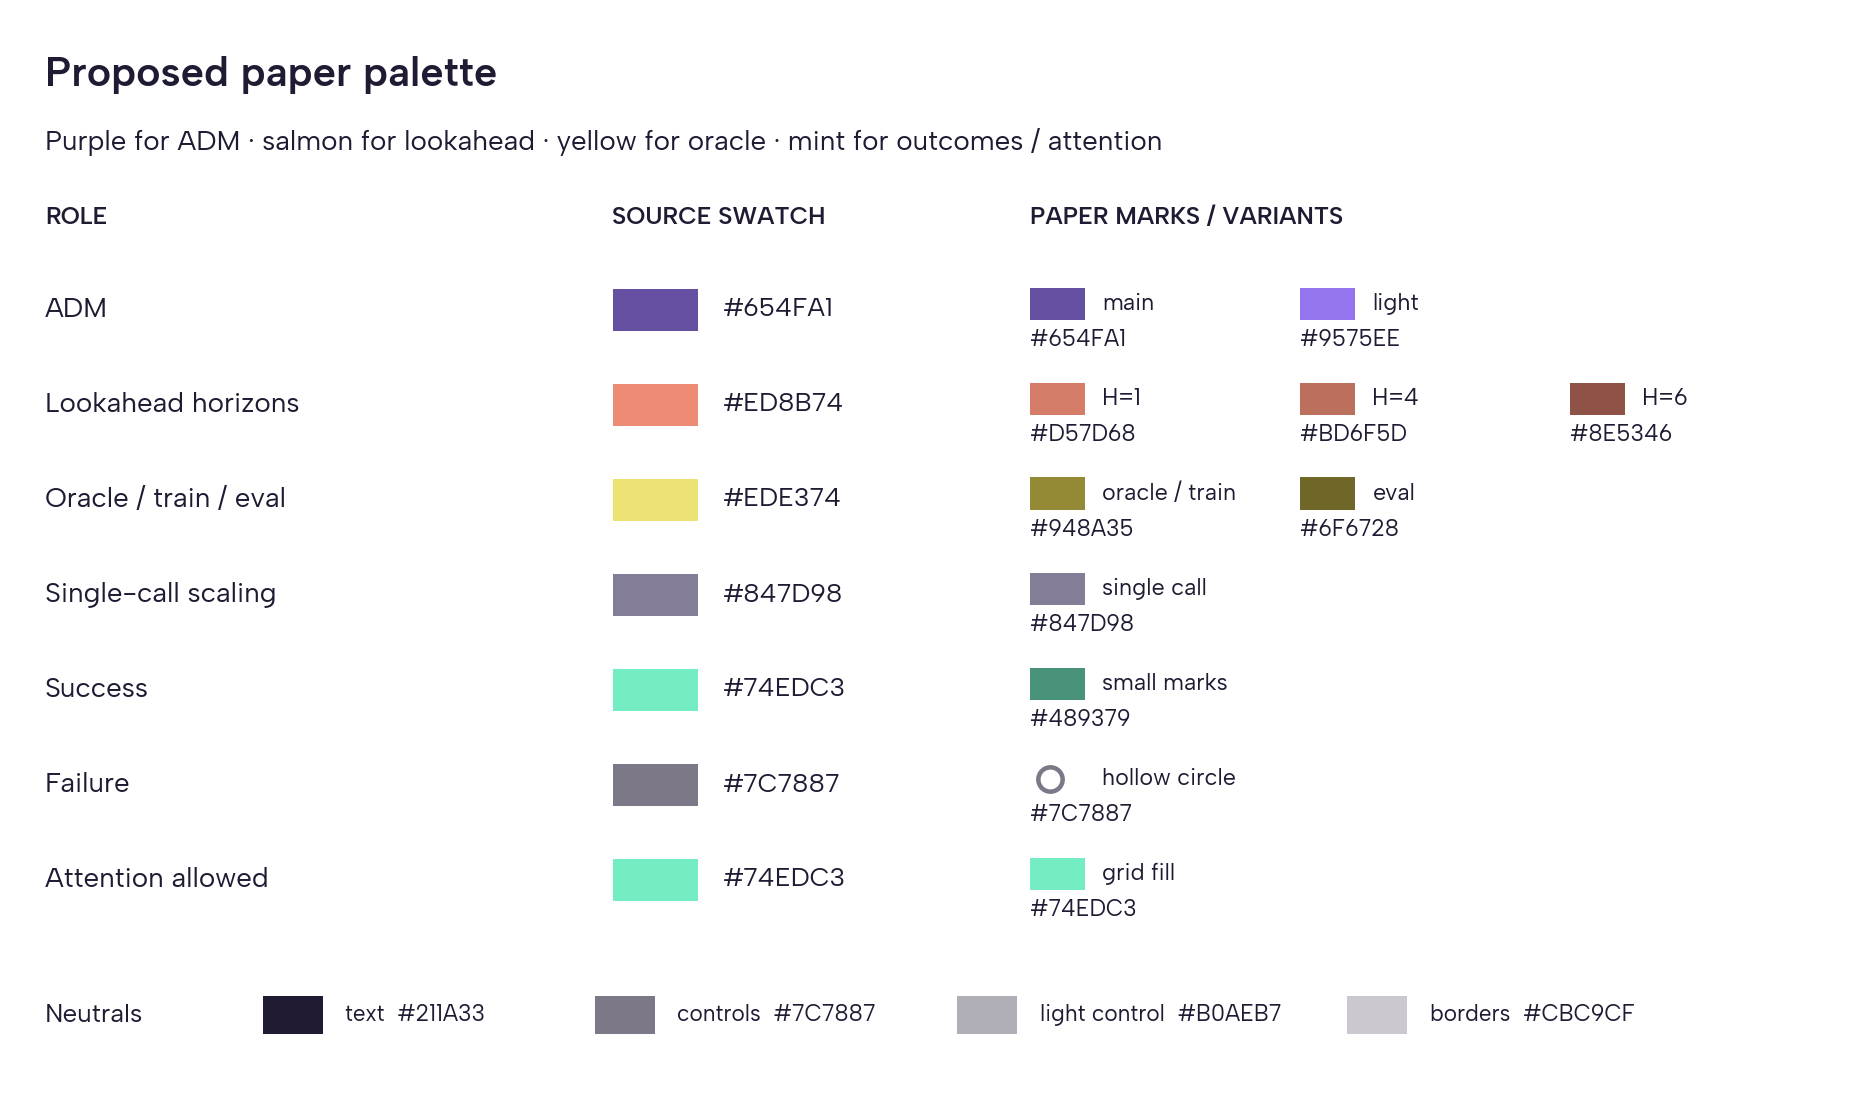
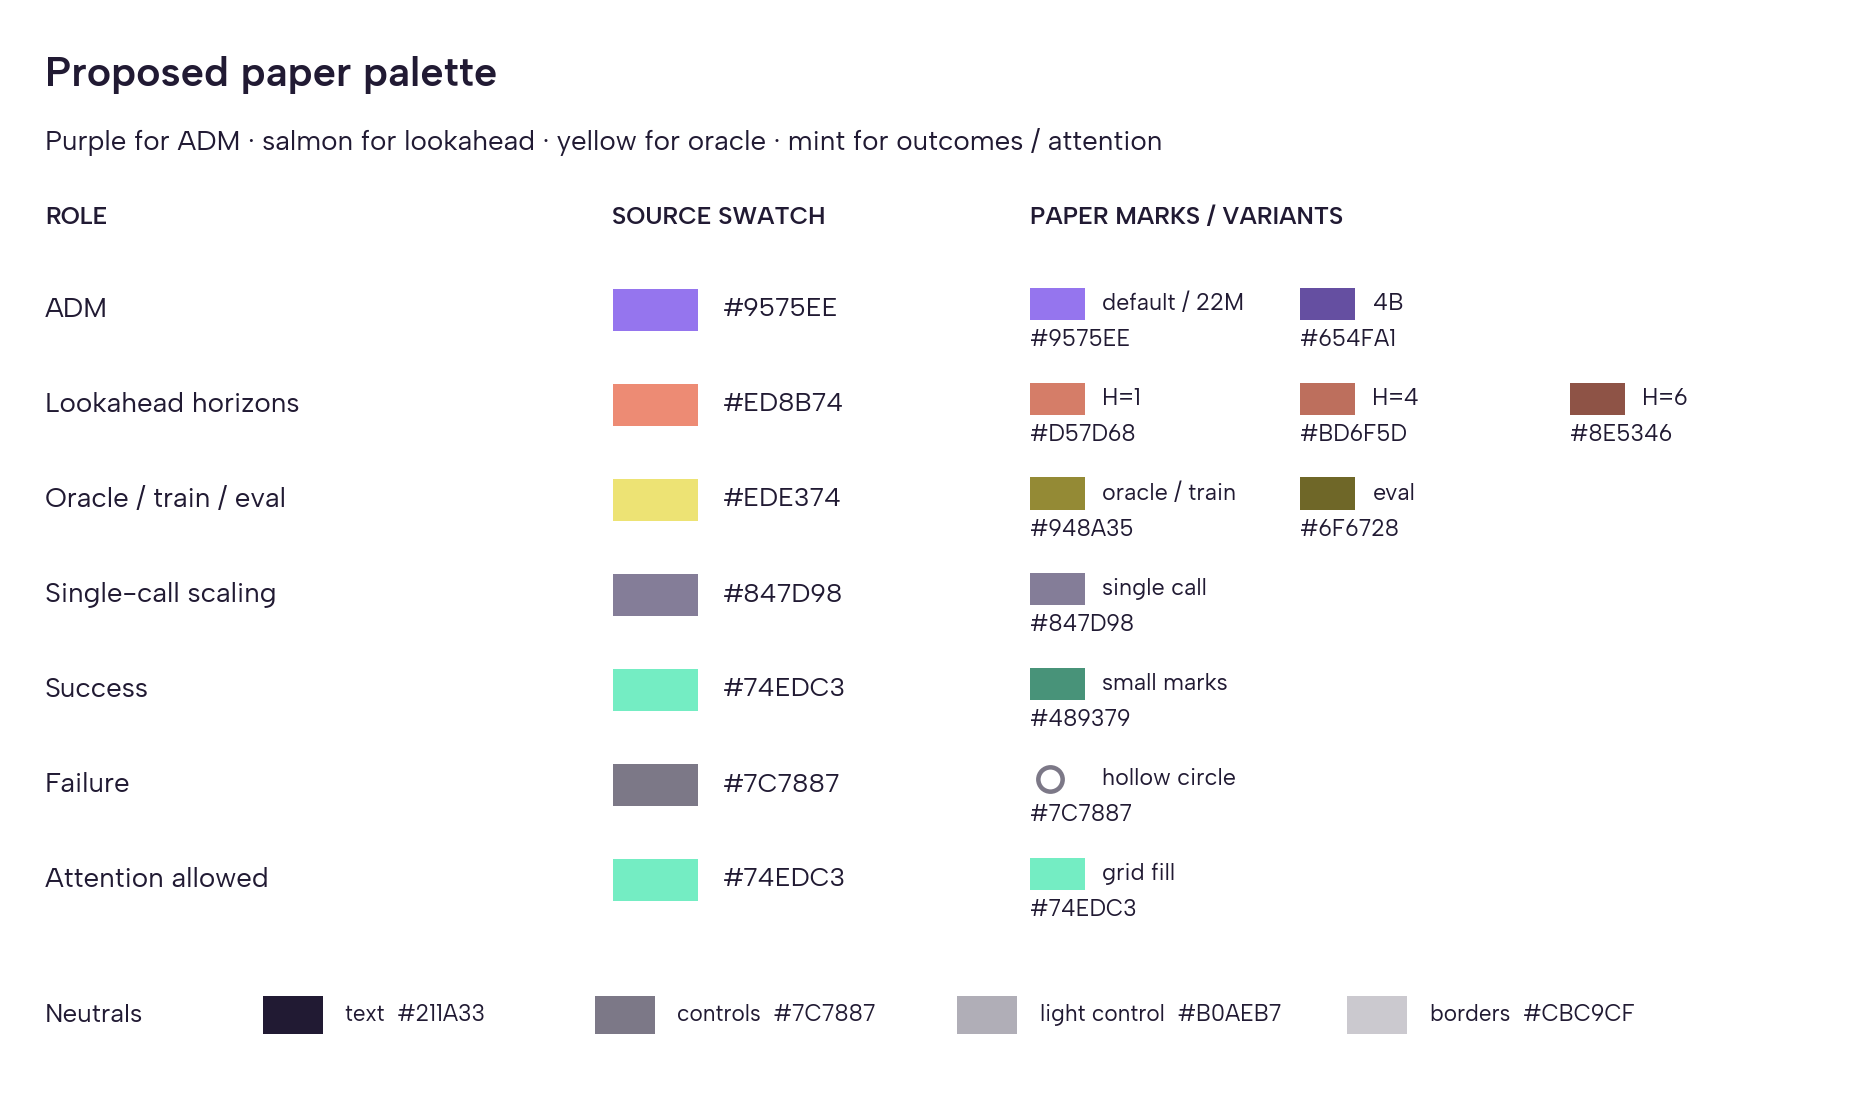
Set default ADM and 22M to light purple and 4B to dark purple

Changed region(s): [[0.5546, 0.2473, 0.7703, 0.3091], [0.3081, 0.2473, 0.4622, 0.3091]]

diff --git a/openwebrl/docs/assets/preview_paper_palette.py b/openwebrl/docs/assets/preview_paper_palette.py
@@ -49,7 +49,7 @@ def palette_board():
     text(2.45, 3.53, "SOURCE SWATCH", 7, weight="semibold")
     text(4.12, 3.53, "PAPER MARKS / VARIANTS", 7, weight="semibold")
     rows = [
-        ("ADM", "adm", [("ADM_MAIN", "main"), ("ADM_LIGHT", "light")]),
+        ("ADM", "adm", [("ADM_22M", "default / 22M"), ("ADM_4B", "4B")]),
         ("Lookahead horizons", "lookahead", [("LOOKAHEAD_H1", "H=1"), ("LOOKAHEAD_H4", "H=4"), ("LOOKAHEAD_H6", "H=6")]),
         ("Oracle / train / eval", "oracle", [("TRAIN", "oracle / train"), ("EVAL", "eval")]),
         ("Single-call scaling", "single_call", [("SINGLE_CALL_MAIN", "single call")]),

diff --git a/openwebrl/docs/README.md b/openwebrl/docs/README.md
@@ -1,6 +1,6 @@
 # OpenWebRL project documentation
 
-[Paper palette preview](assets/paper_plot_palette_preview.png) · [Label-comparison preview](assets/selection_label_palette_preview.png) · [Color-role proposal](assets/paper_plot_palette.json): combines the three AdobeColor palettes, with distinct purple ADM and salmon lookahead families. Proposed colors are for review; the main result figures retain their current colors. [Lookahead horizon convention](ARM_FORMULATIONS.md#lookahead-horizon-convention): H counts the candidate action plus continuation actions.
+[Paper palette preview](assets/paper_plot_palette_preview.png) · [Label-comparison preview](assets/selection_label_palette_preview.png) · [Color-role proposal](assets/paper_plot_palette.json): combines the three AdobeColor palettes, with distinct purple ADM and salmon lookahead families. ADM colors are selected: light purple for default/22M, dark purple for 4B. Other colors are proposed; the main result figures retain their current colors. [Lookahead horizon convention](ARM_FORMULATIONS.md#lookahead-horizon-convention): H counts the candidate action plus continuation actions.
 
 [Live evaluation protocol and code (Online-Mind2Web, WebVoyager, DeepShop): canonical settings, metrics and how to run them](EVAL.md).
 
